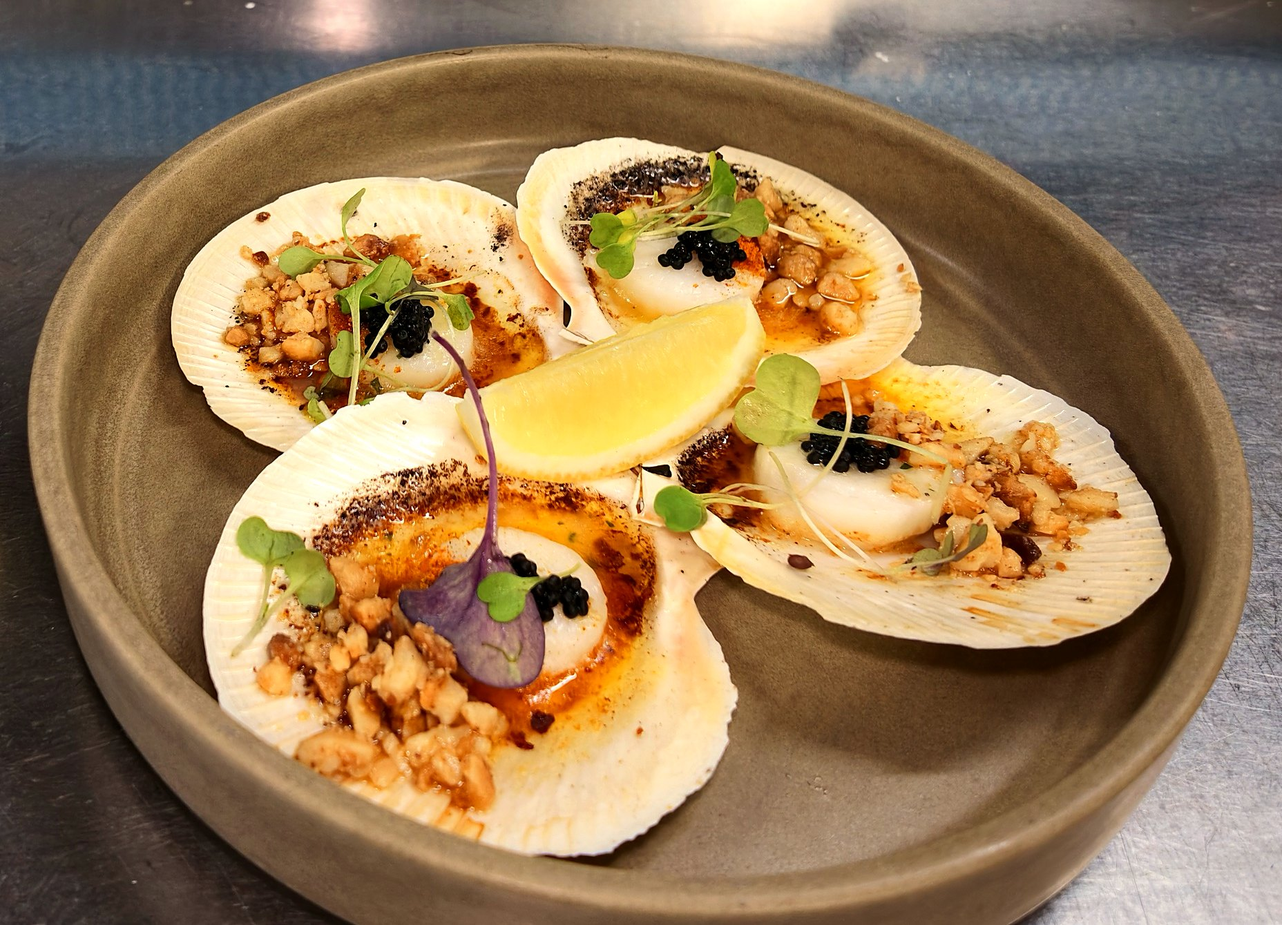
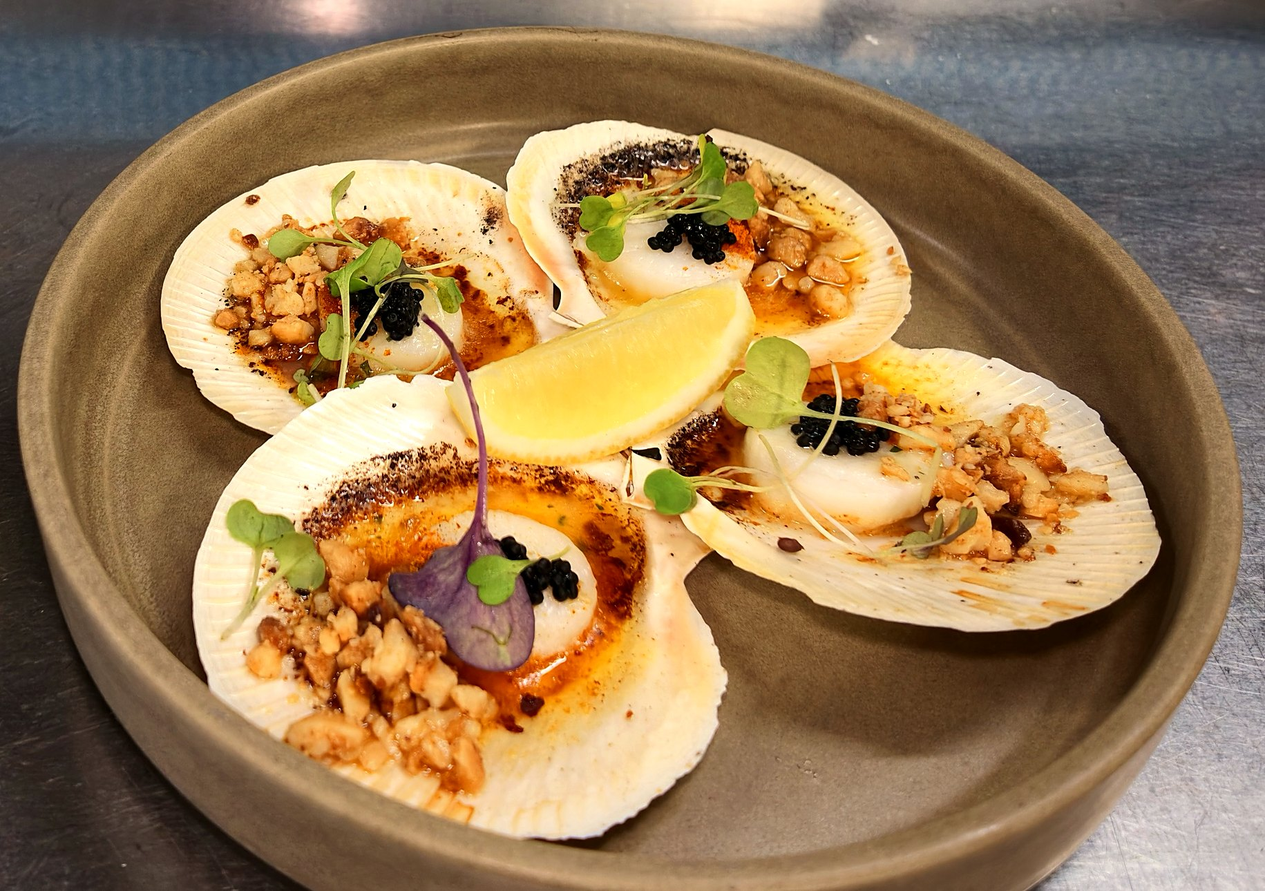
Second review batch: terrace canopy crop, calamari close-up in menu
Terrace full-width image cropped to the fern canopy (no car park);
calamari shown as a deliberate close-up beside the menu since the
source cuts the plate rim; plate section shows the scallops alone;
intro note now matches the sign photo.

Claude-Session: https://claude.ai/code/session_01JxTN17YxbYkgZQyYzHyfPr

diff --git a/index.html b/index.html
@@ -71,36 +71,25 @@
   <section class="intro chapter-day" aria-label="About The Lounge">
     <p class="intro__statement">Lunch in the light off the Broadwater, dinner by lamplight, and a bar that keeps the evening going.</p>
     <figure class="intro__wide">
-      <img src="assets/img/terrace.jpg" alt="The terrace: marble tables and white cross-back chairs under hanging fern baskets" width="2000" height="1125" decoding="async">
+      <img src="assets/img/terrace-ferns.jpg" alt="Fern baskets hanging from the white terrace canopy, trees beyond the clear blinds" width="2400" height="968" decoding="async">
     </figure>
     <div class="intro__pair">
       <figure class="intro__photo intro__photo--a">
         <img src="assets/img/sign.jpg" alt="The lit TL monogram sign: The Lounge, Paradise Point" width="2000" height="1496" decoding="async">
         <figcaption>The sign on the Esplanade.</figcaption>
       </figure>
-      <p class="intro__note">The dining room opens straight onto the terrace, under the hanging ferns.</p>
+      <p class="intro__note">Find the black oval sign on the Esplanade, then take a table under the ferns.</p>
     </div>
   </section>
 
   <section class="plate chapter-day" aria-labelledby="plate-title">
     <div class="plate__frame">
-      <img class="plate__img is-shown" data-plate="scallops" src="assets/img/scallops.jpg" alt="Four scallops in the shell with chilli butter, toasted crumb, black Avruga pearls, micro herbs and a lemon wedge, on a stone-coloured plate" width="1876" height="1510" decoding="async">
-      <img class="plate__img" data-plate="calamari" src="assets/img/calamari.jpg" alt="Salt and pepper calamari rings and tentacles with parsley and a lemon wedge on a green-rimmed oval plate" width="2000" height="1366" decoding="async">
+      <img class="plate__img is-shown" src="assets/img/scallops.jpg" alt="Four scallops in the shell with chilli butter, toasted crumb, black Avruga pearls, micro herbs and a lemon wedge, on a stone-coloured plate" width="1831" height="1290" decoding="async">
     </div>
     <div class="plate__text">
-      <div class="plate__tabs" role="tablist" aria-label="Plates">
-        <button type="button" role="tab" aria-selected="true" data-tab="scallops">Scallops</button>
-        <button type="button" role="tab" aria-selected="false" data-tab="calamari">Calamari</button>
-      </div>
       <div class="plate__copy">
-        <div data-copy="scallops">
-          <h2 id="plate-title" class="plate__title">Scallops in the shell</h2>
-          <p>Seared and returned to the shell with chilli butter, toasted crumb and Avruga pearls. Lemon on the side.</p>
-        </div>
-        <div data-copy="calamari" hidden>
-          <h2 class="plate__title">Salt and pepper calamari</h2>
-          <p>Lightly dusted and fried to order, finished with cracked pepper, parsley and a wedge of lemon.</p>
-        </div>
+        <h2 id="plate-title" class="plate__title">Scallops in the shell</h2>
+        <p>Seared and returned to the shell with chilli butter, toasted crumb and Avruga pearls. Lemon on the side.</p>
       </div>
       <div class="plate__actions">
         <a class="pill" href="#book">Book a table</a>
@@ -112,6 +101,10 @@
   <section class="menu chapter-day" id="menu" aria-labelledby="menu-title">
     <h2 id="menu-title" class="menu__title"><span>Coastal plates,</span> <span>made to share</span></h2>
     <div class="menu__body">
+      <figure class="menu__photo">
+        <img src="assets/img/calamari-closeup.jpg" alt="Close-up of salt and pepper calamari with parsley and a lemon wedge" width="1597" height="1292" decoding="async">
+        <figcaption>Salt and pepper calamari.</figcaption>
+      </figure>
       <ul class="menu__rows">
         <li><span class="k">Raw</span><span class="d">Oysters</span><span class="n">Sunday special</span></li>
         <li><span class="k">Small plates</span><span class="d">Scallops in the shell</span><span class="n">Chilli butter, crumb, Avruga</span></li>

diff --git a/styles.css b/styles.css
@@ -166,13 +166,16 @@ html { scrollbar-color: var(--lamp-muted) var(--black); }
 .menu__title { font: 300 var(--step-head)/.98 var(--font); letter-spacing: -.03em; }
 .menu__title span:first-child { display: block; }
 .menu__body { display: grid; grid-template-columns: repeat(12, 1fr); column-gap: clamp(1rem, 2vw, 2rem); margin-top: 96px; align-items: end; }
-.menu__rows { grid-column: 5 / 13; grid-row: 1; list-style: none; margin: 0; padding: 0; }
+.menu__photo { grid-column: 1 / 5; grid-row: 1 / 3; align-self: start; }
+.menu__photo img { width: 100%; }
+.menu__photo figcaption { margin-top: 10px; font-size: var(--step-small); color: var(--ground-muted); }
+.menu__rows { grid-column: 6 / 13; grid-row: 1; list-style: none; margin: 0; padding: 0; }
 .menu__rows li { display: grid; grid-template-columns: 24% 1fr auto; gap: 1rem; align-items: baseline; padding-bottom: 26px; }
 .menu__rows li.gap { padding-top: 44px; }
 .menu__rows .k { color: var(--ground-muted); }
 .menu__rows .d { font: 400 var(--step-lead)/1.2 var(--font); letter-spacing: -.01em; }
 .menu__rows .n { color: var(--ground-muted); text-align: right; }
-.menu__foot { grid-column: 5 / 13; grid-row: 2; margin-top: 2rem; font-size: var(--step-small); color: var(--ground-muted); max-width: 44ch; }
+.menu__foot { grid-column: 6 / 13; grid-row: 2; margin-top: 2rem; font-size: var(--step-small); color: var(--ground-muted); max-width: 44ch; }
 
 /* ---------- nights: the week at dusk ---------- */
 .nights { background: var(--sea); color: var(--sea-ink); padding: var(--gap) 0 0; transition: background-color var(--light) var(--ease); }
@@ -261,6 +264,7 @@ html { scrollbar-color: var(--lamp-muted) var(--black); }
   .links { display: none; }
   .hero__side { width: min(32ch, 46vw); }
   .menu__word { display: none; }
+  .menu__photo { grid-column: 1 / 8; grid-row: 1; margin-bottom: 56px; }
   .menu__rows, .menu__foot { grid-column: 1 / -1; grid-row: auto; }
   .book__text { grid-column: 1 / -1; margin-bottom: 2.5rem; }
   .book__widget { grid-column: 1 / -1; }
@@ -285,6 +289,7 @@ html { scrollbar-color: var(--lamp-muted) var(--black); }
 
   .menu__title span:first-child { padding-left: 0; }
   .menu__body { display: block; margin-top: 48px; }
+  .menu__photo { width: 72%; margin: 0 0 48px; }
   .menu__rows li { grid-template-columns: 1fr auto; row-gap: .1rem; }
   .menu__rows .k { grid-column: 1; grid-row: 1; }
   .menu__rows .d { grid-column: 1; grid-row: 2; }

diff --git a/main.js b/main.js
@@ -61,20 +61,11 @@
     todayRow.querySelector('.nights__what').appendChild(tag);
   }
 
-  // ---------- plate tabs ----------
-  const tabs = [...document.querySelectorAll('[data-tab]')];
-  tabs.forEach((tab) => tab.addEventListener('click', () => {
-    const id = tab.dataset.tab;
-    tabs.forEach((t) => t.setAttribute('aria-selected', String(t === tab)));
-    document.querySelectorAll('[data-plate]').forEach((img) => img.classList.toggle('is-shown', img.dataset.plate === id));
-    document.querySelectorAll('[data-copy]').forEach((c) => { c.hidden = c.dataset.copy !== id; });
-  }));
-
   // ---------- entrances: heading, then text, then picture, staggered ----------
   const groups = [
     ['.intro', ['.intro__statement', '.intro__note']],
-    ['.plate', ['.plate__img', '.plate__tabs', '.plate__copy', '.plate__actions']],
-    ['.menu', ['.menu__title', '.menu__rows li', '.menu__foot']],
+    ['.plate', ['.plate__img', '.plate__copy', '.plate__actions']],
+    ['.menu', ['.menu__title', '.menu__photo img', '.menu__rows li', '.menu__foot']],
     ['.nights', ['.nights__title', '.nights__rows li']],
     ['.bar', ['.bar__title']],
     ['.book', ['.book__title', '.book__text p', '.book__widget']],
